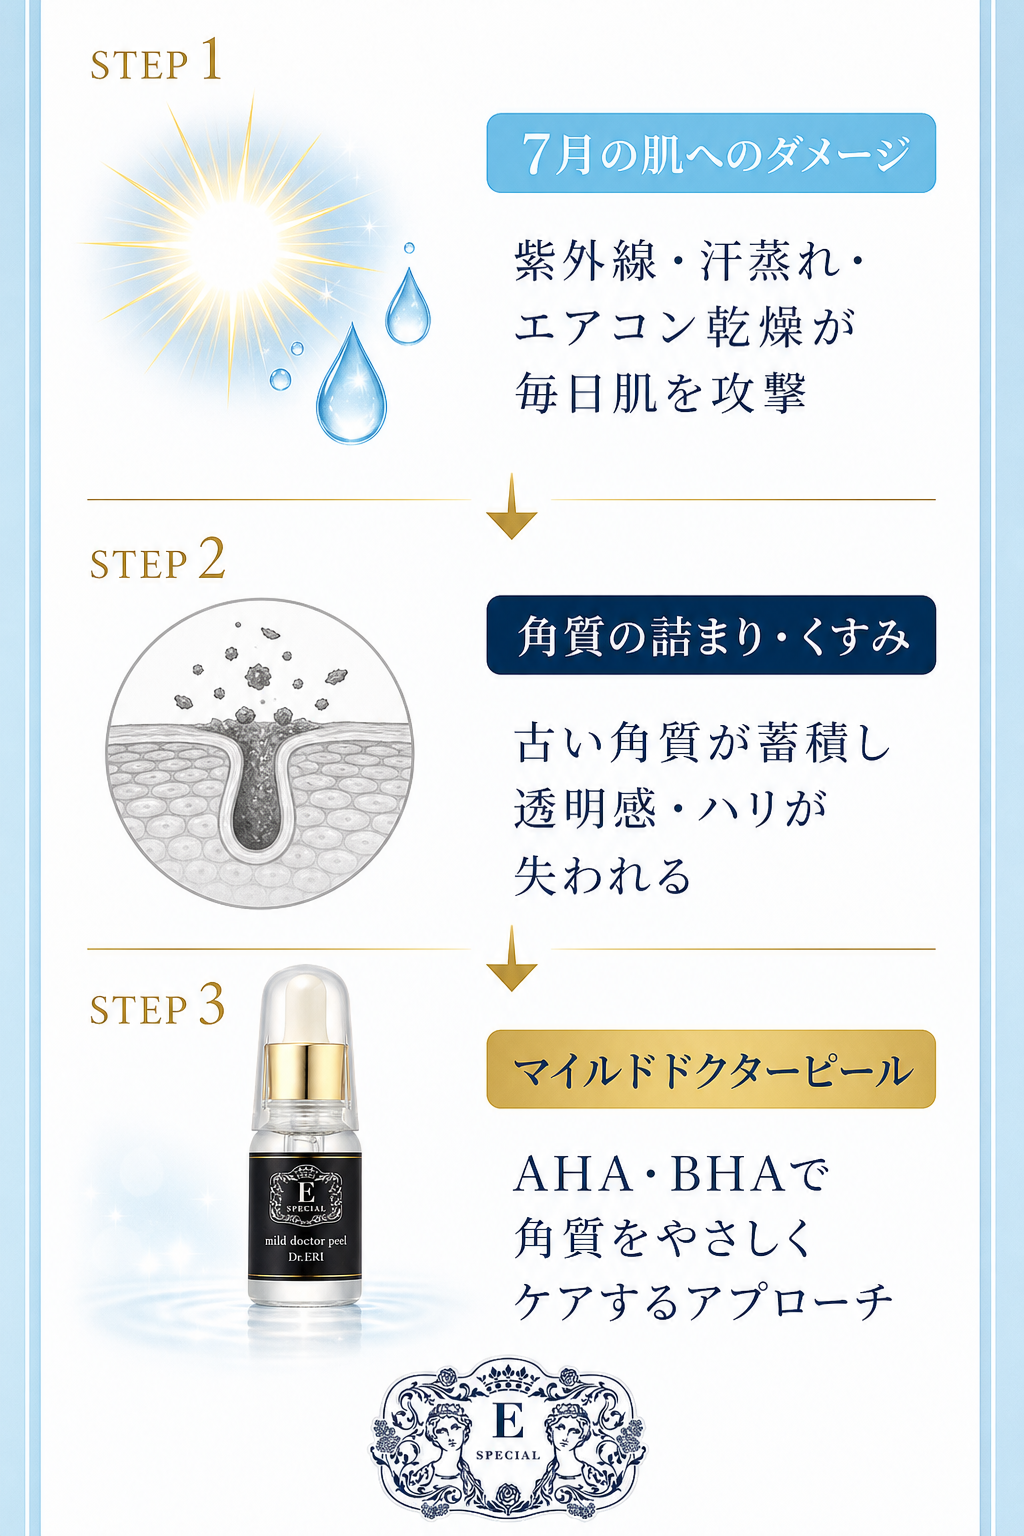
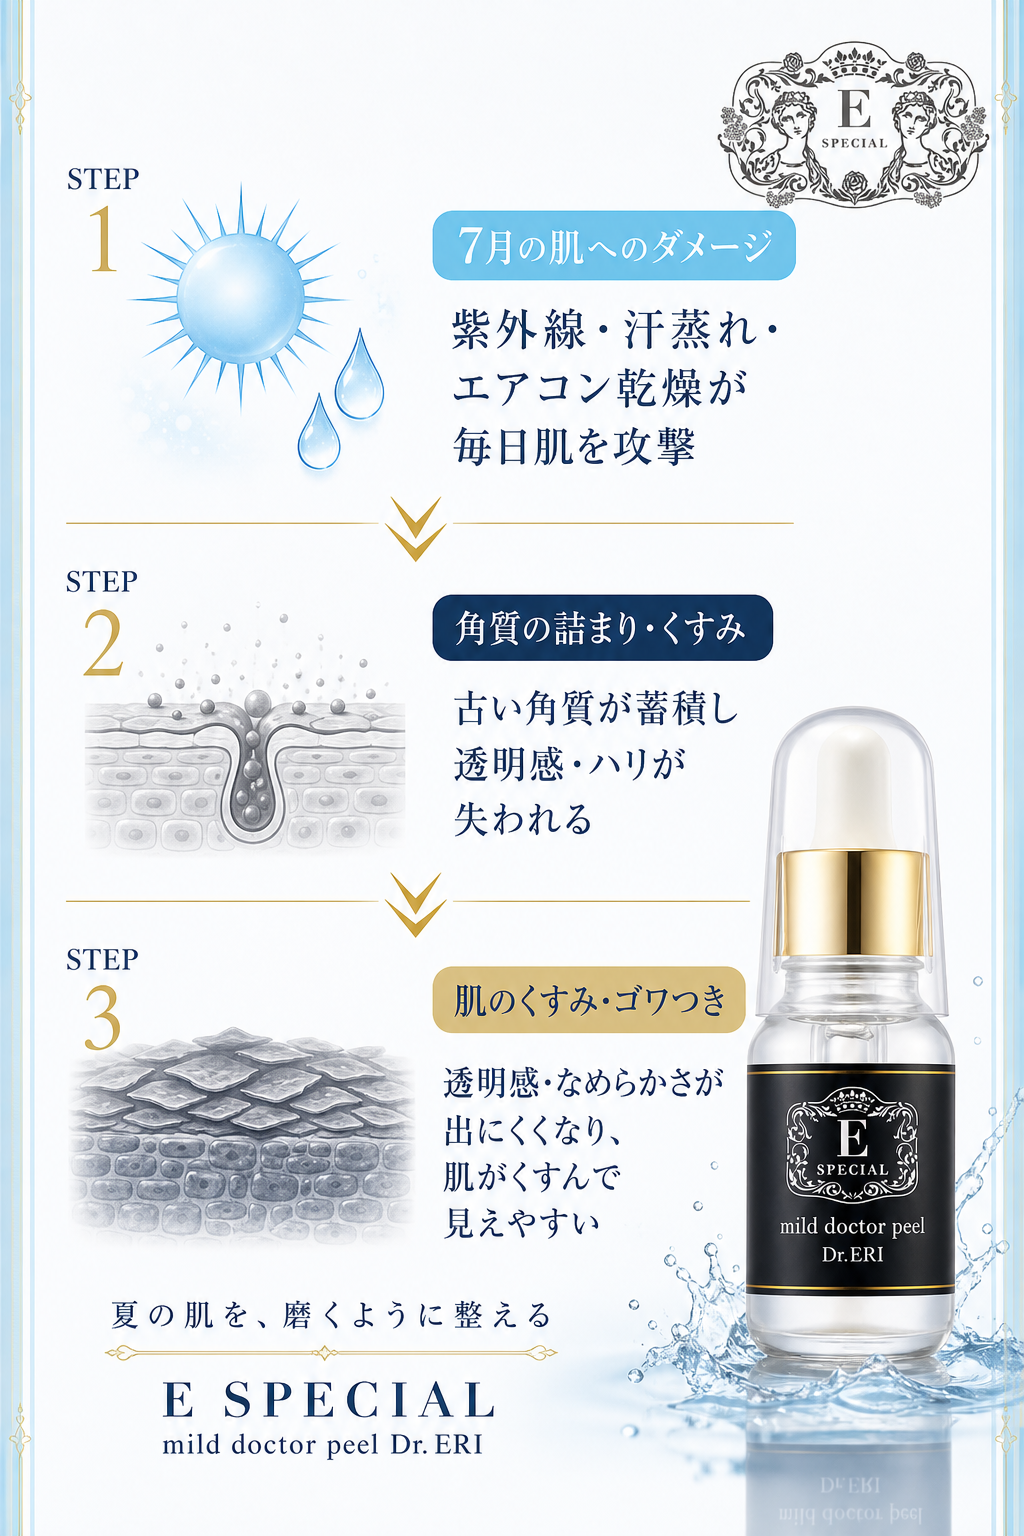
feat: 画像03 STEP3修正・画像08 商品紹介追加

diff --git a/index.html b/index.html
@@ -231,12 +231,8 @@
         <div class="section-label">How It Works</div>
         <h2 class="section-heading">ダメージの連鎖を<br>断ち切る3ステップ。</h2>
       </div>
-      <div class="img-block"><img src="./merumaga_03_hashi.png" alt="3ステップ図解"></div>
-      <div class="text-section tight">
-        <div class="section-body">
-          <p>スキンクリアセラム(マイルドドクターピール)は、ドクターピールの考え方を日常ケアに落とし込んだ美容液です。毎晩のケアにプラスするだけで、夏の肌が少しずつ整っていきます。</p>
-        </div>
-      </div>
+      <div class="img-block"><img src="./merumaga_03_hashi.png" alt="7月の肌ダメージ→角質詰まり→肌のくすみ・ゴワつき"></div>
+      <div class="img-block"><img src="./merumaga_08_product.png" alt="マイルドドクターピール 商品紹介"></div>
 
       <div class="divider"></div>
 